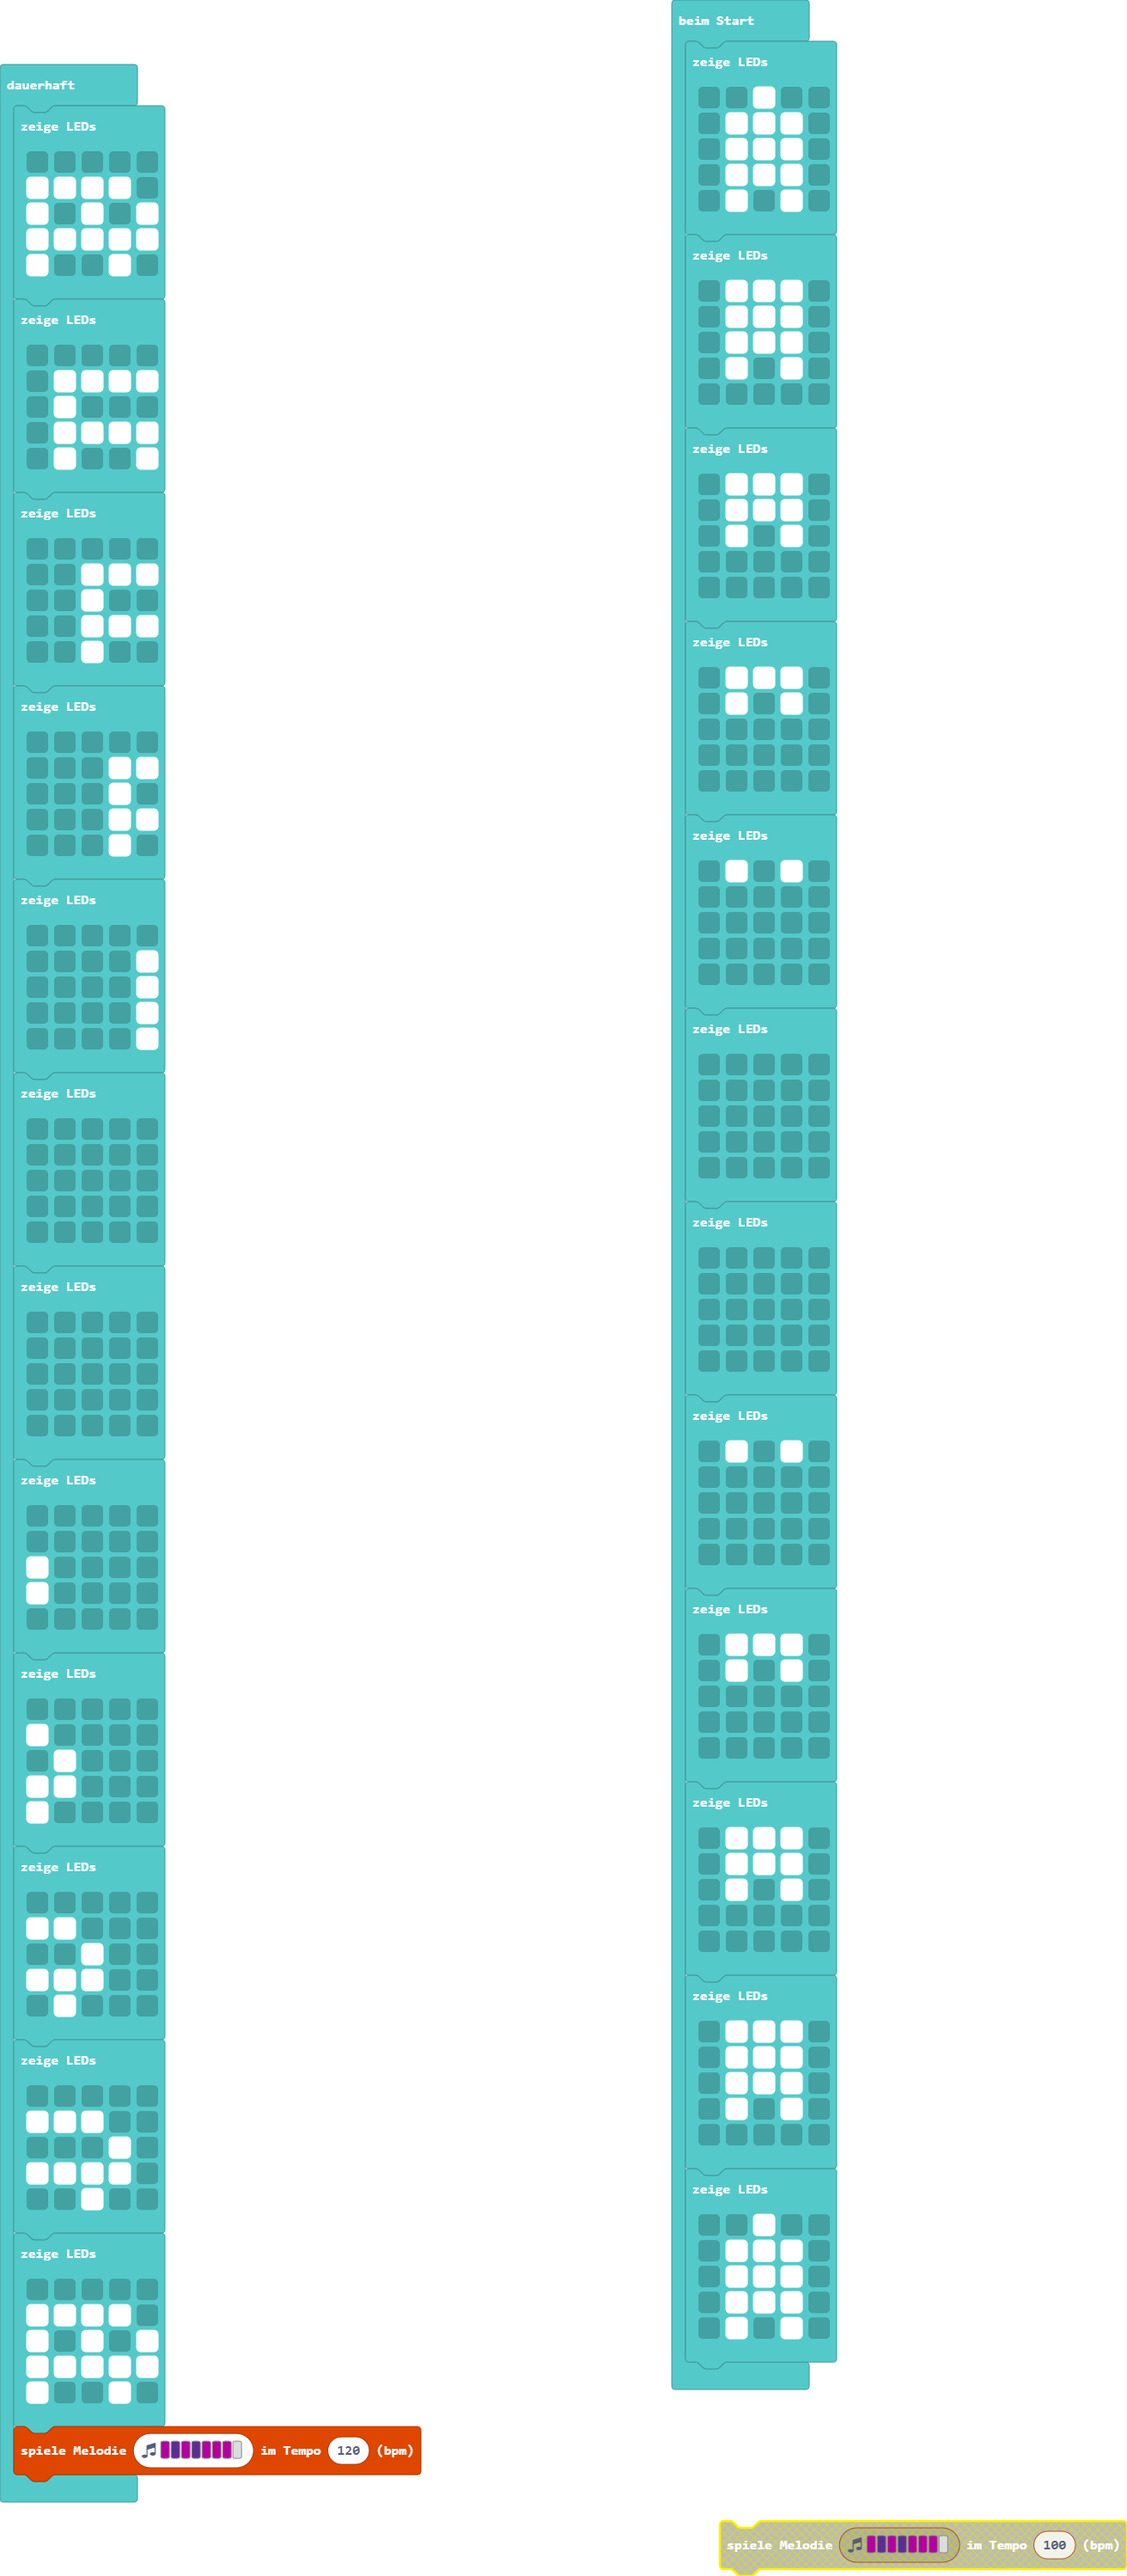
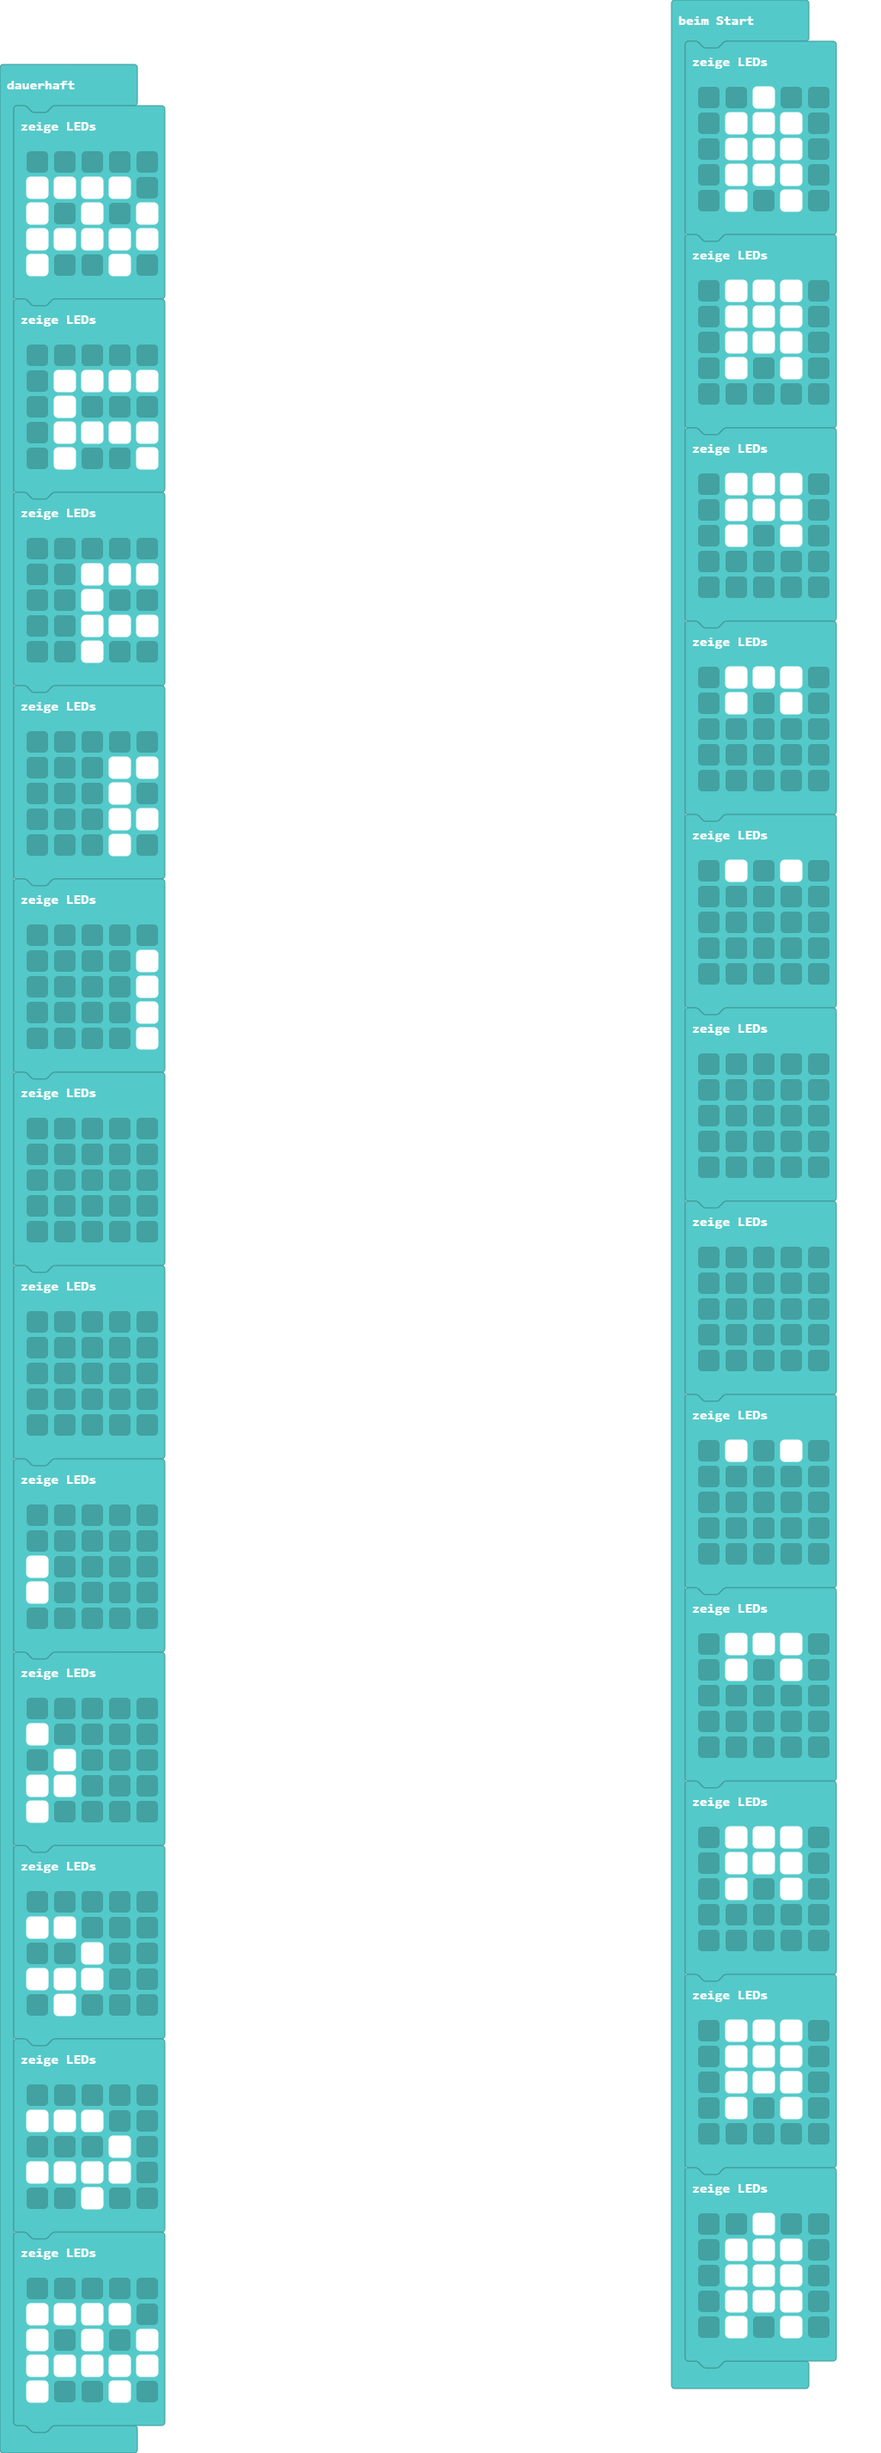
Aktualisiere main.blocks, main.ts

diff --git a/main.ts b/main.ts
@@ -167,5 +167,4 @@ basic.forever(function () {
         # # # # #
         # . . # .
         `)
-    music.playMelody("C D C D C C C - ", 120)
 })
